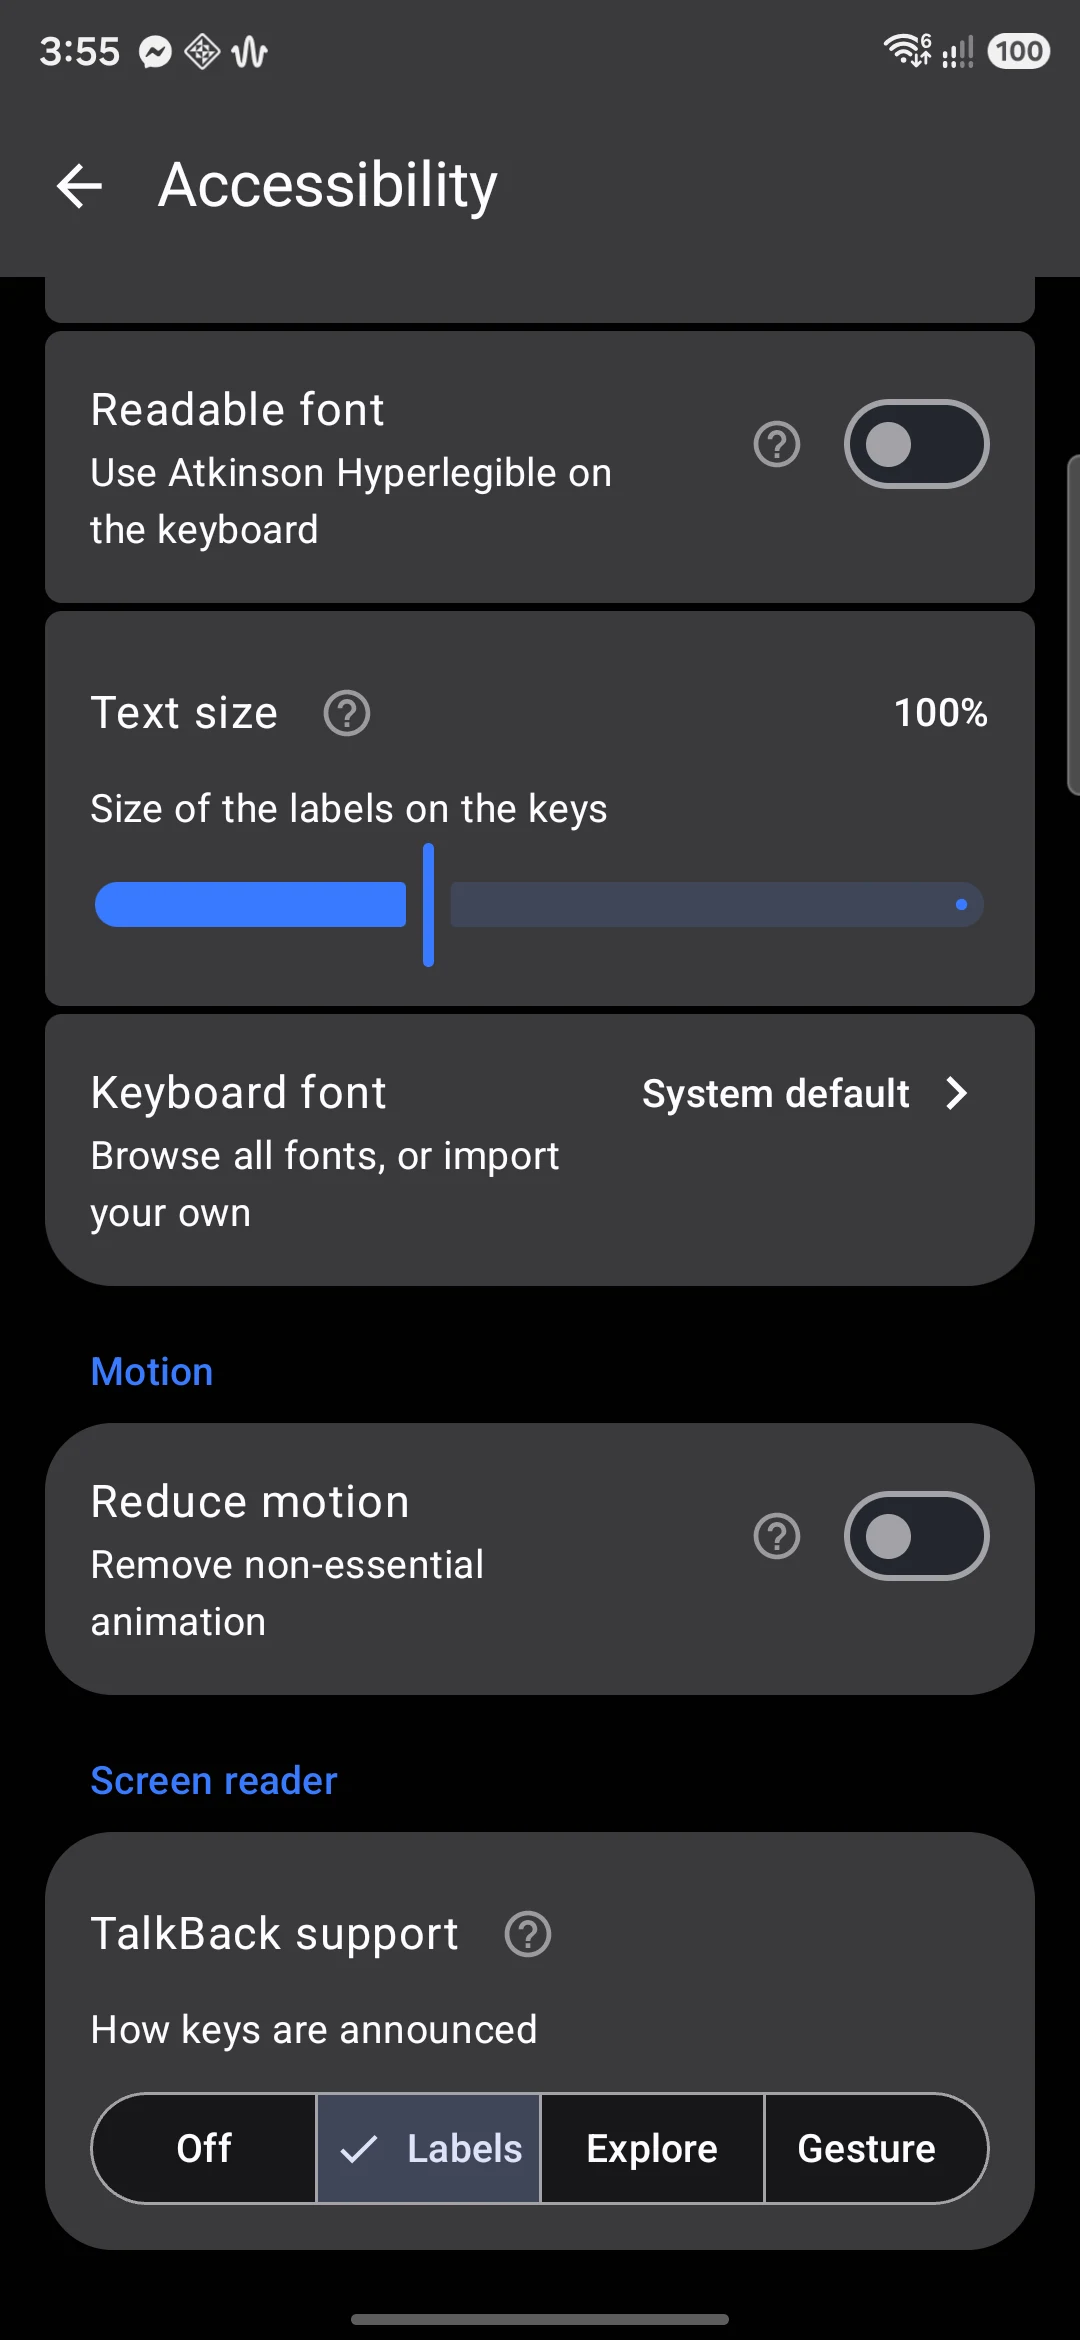
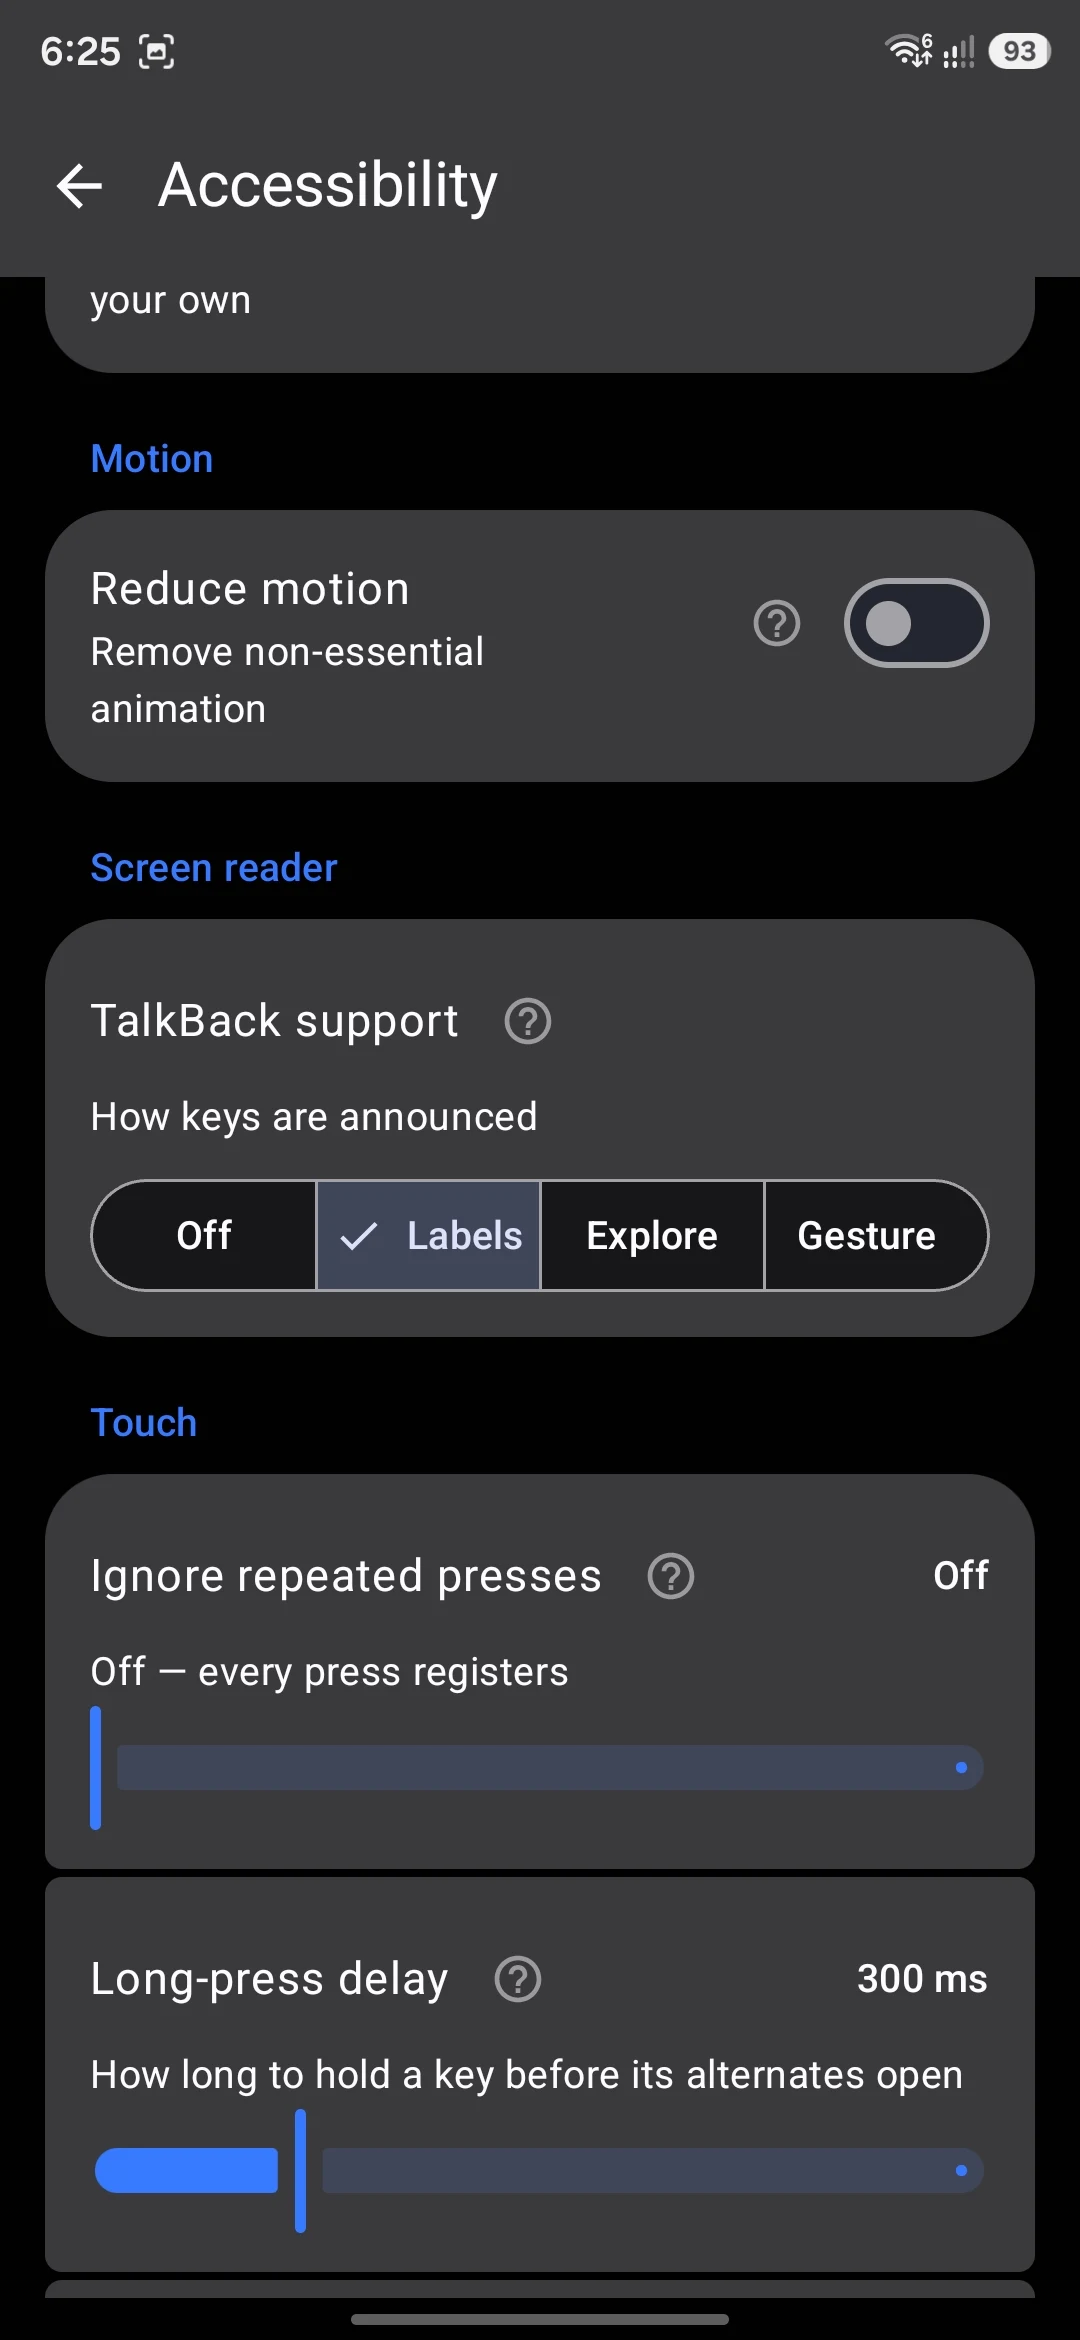
docs: more screenshots

diff --git a/docs/screenshots/SHOOTLIST.md b/docs/screenshots/SHOOTLIST.md
@@ -1,6 +1,6 @@
 # Screenshot shoot list
 
-226 shots left. Generated by `shootlist.py` — re-run it any time to regenerate with the remaining shots only.
+220 shots left. Generated by `shootlist.py` — re-run it any time to regenerate with the remaining shots only.
 
 ## How to use this
 
@@ -2193,87 +2193,5 @@ python3 docs/screenshots/import.py settings-tools
 - Tap Weather to open its settings screen (only the top-level Tools list is deep-link addressable, not the individual tool/WEATHER route).
 
 > Optionally capture the location-edit dialog open (tap the Location row) rather than just the summary row, to show the search field.
-
----
-
-## Keyboard › emoji panel  (2 shots)
-
-```bash
-python3 docs/screenshots/import.py keyboard-emoji
-```
-
-### 1. `emoji/settings-overview`
-
-**Shot:** The Emoji settings screen, with the live font preview row.
-
-- Open WM Keyboard settings home screen
-- Tap Emoji under Features
-- Scroll to the Emoji style group so the emoji font preview row is visible
-
-> "emoji" is not in the wmkeyboard://settings deep-link allowlist (only typing, appearance, themes, languages, tools, search are) — reach it by tapping through the settings home screen instead. Capture with default settings (Emoji font = System) so the preview row shows the device's own emoji pack.
-
-### 2. `emoji/keyword-packs`
-
-**Shot:** The Emoji keywords screen, with per-language download and delete controls.
-
-- Open WM Keyboard settings home screen
-- Tap Emoji under Features
-- Tap "Emoji keywords"
-
-> Ideally capture with one language already downloaded (shows a Delete button) and one not yet downloaded (shows a Download button) visible in the same frame to illustrate both states.
-
----
-
-## Settings › Search  (2 shots)
-
-```bash
-python3 docs/screenshots/import.py settings-search
-```
-
-### 1. `reference/settings/search-results`
-
-**Shot:** Typing a query in Settings search — each result carries a breadcrumb to the screen it lives on.
-
-- am start -a android.intent.action.VIEW -d wmkeyboard://settings/search
-- Type a query such as "haptic" into the focused search field so results populate before the shot.
-
-> Pick a query that returns 3-6 results so the breadcrumb text is legible at phone-frame scale; avoid a query with only one hit.
-
-### 2. `reference/settings/dictionary-emoji-keywords`
-
-**Shot:** Emoji keywords: the Downloads toggle, a bundled-catalog row, and an imported pack for one language.
-
-- adb shell am start -a android.intent.action.VIEW -d 'wmkeyboard://settings/search'
-- Search 'Emoji keywords' and tap the result (the Emoji screen itself is not deep-link allowlisted, so search is the reliable path).
-- Have one language with a downloaded bundled catalog and a second with an imported pack so both row kinds are visible under the Downloads toggle.
-
-> Route 'emoji' and 'emojikeywords' are both outside SettingsShortcuts.Routes (only typing/appearance/themes/languages/tools/search). Falling back to settings search is the cleanest path.
-
----
-
-## Settings › Appearance › Keyboard themes  (2 shots)
-
-```bash
-python3 docs/screenshots/import.py settings-themes
-```
-
-### 1. `reference/settings-deep-link-destination`
-
-**Shot:** A settings screen reached from a launcher shortcut — this one opened straight to Themes.
-
-- adb shell am start -n com.wasimaster.wmkeyboard/.app.MainActivity -a android.intent.action.VIEW -d "wmkeyboard://settings/themes"
-
-> Settings deep links are not BROWSABLE, so this must be an explicit intent naming MainActivity directly (works even without an intent-filter match, since the component is named). Shows the Themes settings screen as the destination.
-
-### 2. `reference/settings/backup-screen`
-
-**Shot:** The Backup & restore screen: what to include, plus the export and import buttons.
-
-- adb shell am start -n com.wasimaster.wmkeyboard/.app.MainActivity
-- Route 'backup' is NOT in the wmkeyboard://settings deep-link allowlist (SettingsShortcuts.kt only allows typing/appearance/themes/languages/tools/search) — no deep link works here.
-- Tap-sequence: on the settings home screen, tap the 'Data' group, then tap 'Backup & restore'.
-- Scroll so the full 'Include in export' toggle group and the Export/Import buttons are visible in frame (may need two shots or a tall capture).
-
-> Shows the 10-toggle export list at its default state (Settings/Themes/Snippets/Custom word lists/Addon repositories on, the rest off) plus the Export backup and Import backup buttons below.
 
 ---
